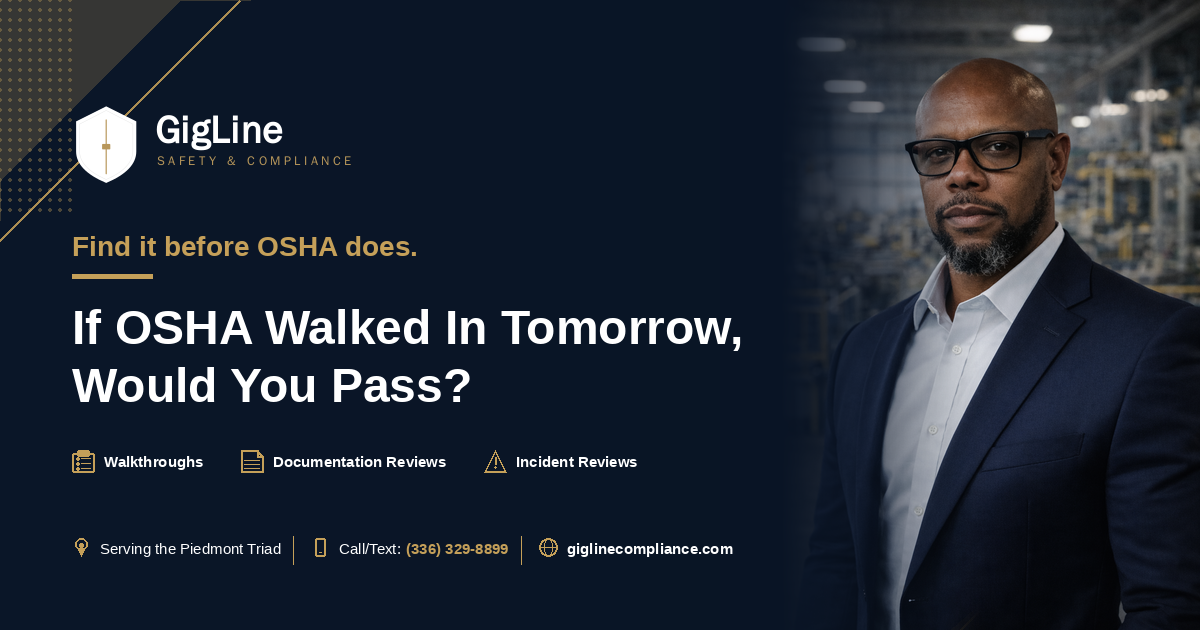
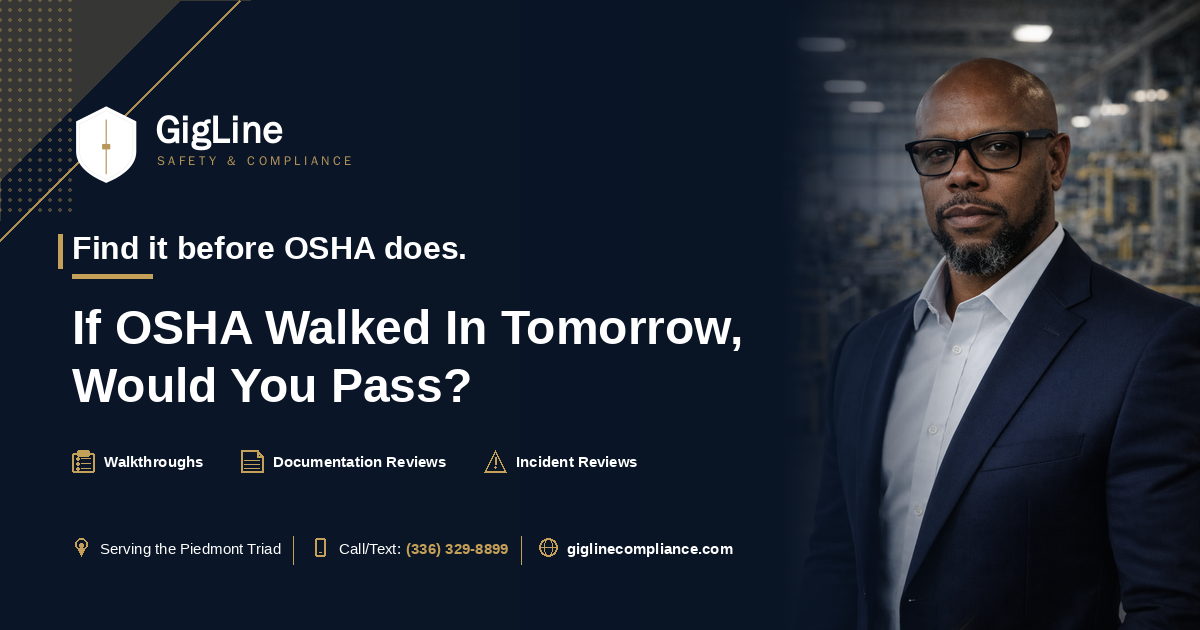
auto-commit for 254a38e1-564c-4421-a4d0-bbeb4117fc00

Changed region(s): [[0.0308, 0.3619, 0.4008, 0.4222]]

diff --git a/backend/scripts/generate_og_image.py b/backend/scripts/generate_og_image.py
@@ -224,13 +224,13 @@ def build():
 
     # ── Tagline beneath logo ──
     draw = ImageDraw.Draw(img)
-    tagline_font = load_font(28, bold=True)
-    # "Practical Safety. Real Compliance." with gold accent on key words
-    # Composing parts to color individually
+    tagline_font = load_font(32, bold=True)
     tag_x = 72
     tag_y = 230
-    # Use a simpler tagline for cleaner read
-    draw.text((tag_x, tag_y), "Find it before OSHA does.", font=tagline_font, fill=GOLD + (255,))
+    # Small vertical gold accent bar to the left of the tagline (survives downscaling)
+    draw.rectangle([(tag_x - 14, tag_y + 4), (tag_x - 10, tag_y + 38)], fill=GOLD + (255,))
+    # Tagline in WHITE for max contrast at small preview sizes (200–400px wide)
+    draw.text((tag_x, tag_y), "Find it before OSHA does.", font=tagline_font, fill=WHITE + (255,))
 
     # ── Gold rule below tagline ──
     draw.rectangle([(tag_x, tag_y + 44), (tag_x + 80, tag_y + 48)], fill=GOLD + (255,))
